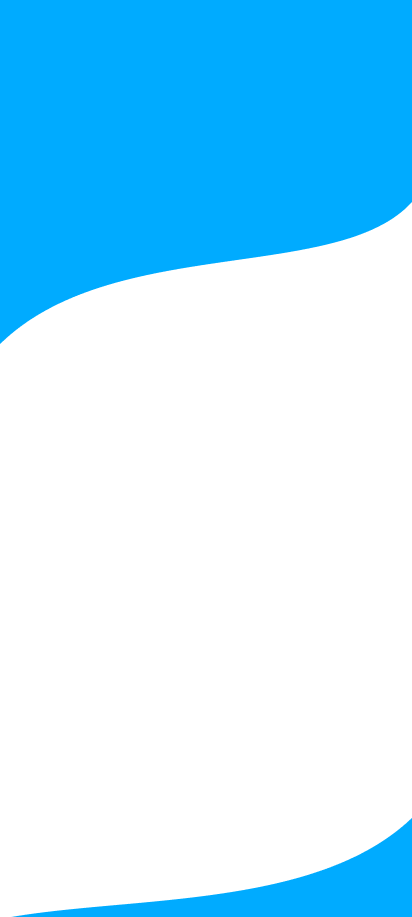
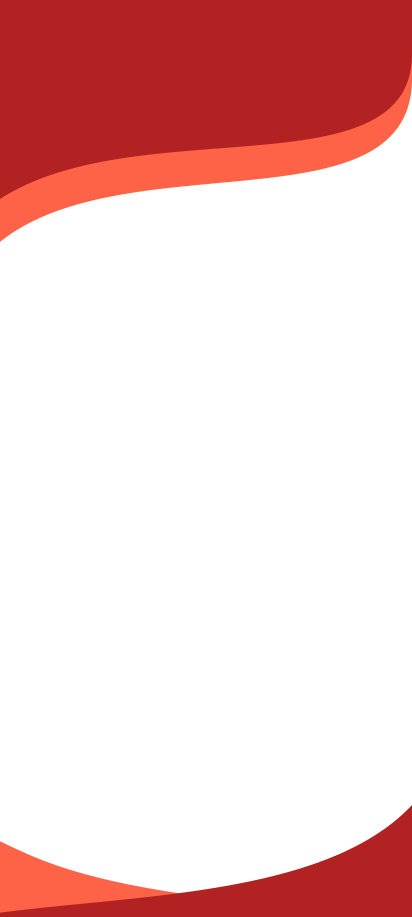
re-vamp login, signup, and bottomnavbar

diff --git a/lib/view/signup_view.dart b/lib/view/signup_view.dart
@@ -25,16 +25,11 @@ class _MySignupState extends State<SignupView> {
         resizeToAvoidBottomInset: true,
         body: Stack(
           children: [
-            Container(
-              decoration: const BoxDecoration(
-                gradient: LinearGradient(
-                  begin: Alignment.topCenter,
-                  end: Alignment.bottomCenter,
-                  colors: [
-                    Color(0xFFCEEFFF),
-                    Colors.white,
-                  ],
-                ),
+            // Background Image
+            Positioned.fill(
+              child: Image.asset(
+                'assets/images/signup_background.png',
+                fit: BoxFit.cover,
               ),
             ),
             // Sign up content
@@ -44,13 +39,13 @@ class _MySignupState extends State<SignupView> {
                   mainAxisAlignment: MainAxisAlignment.center,
                   crossAxisAlignment: CrossAxisAlignment.center,
                   children: [
-                    const SizedBox(height: 20),
+                    const SizedBox(height: 80),
                     Text(
                       'Sign up',
                       style: TextStyle(
                         fontFamily: "Quicksand",
                         fontSize: 40,
-                        color: HexColor('#00abff'),
+                        color: HexColor("#B22222"),
                         fontWeight: FontWeight.bold,
                       ),
                     ),
@@ -64,7 +59,7 @@ class _MySignupState extends State<SignupView> {
                             TextFormField(
                               keyboardType: TextInputType.text,
                               decoration:
-                                  _inputDecoration('Name', 'Enter your name'),
+                              _inputDecoration('Name', 'Enter your name'),
                               validator: (enteredName) {
                                 return enteredName!.isEmpty
                                     ? 'Please enter your name'
@@ -86,7 +81,7 @@ class _MySignupState extends State<SignupView> {
                             TextFormField(
                               keyboardType: TextInputType.emailAddress,
                               decoration:
-                                  _inputDecoration('Email', 'Enter your email'),
+                              _inputDecoration('Email', 'Enter your email'),
                               validator: (value) {
                                 if (value!.isEmpty) {
                                   return 'Please enter your email';
@@ -113,7 +108,7 @@ class _MySignupState extends State<SignupView> {
                                   onPressed: () {
                                     setState(() {
                                       _passwordIsObscured =
-                                          !_passwordIsObscured;
+                                      !_passwordIsObscured;
                                     });
                                   },
                                 ),
@@ -140,7 +135,7 @@ class _MySignupState extends State<SignupView> {
                                   onPressed: () {
                                     setState(() {
                                       _confirmPasswordIsObscured =
-                                          !_confirmPasswordIsObscured;
+                                      !_confirmPasswordIsObscured;
                                     });
                                   },
                                 ),
@@ -163,13 +158,12 @@ class _MySignupState extends State<SignupView> {
                                 elevation: 5,
                               ).copyWith(
                                 backgroundColor:
-                                    WidgetStateProperty.resolveWith<Color>(
-                                  (Set<WidgetState> states) {
+                                WidgetStateProperty.resolveWith<Color>(
+                                      (Set<WidgetState> states) {
                                     if (states.contains(WidgetState.pressed)) {
-                                      return HexColor(
-                                          "FF5400"); // Orange when pressed
+                                      return HexColor("FF6347");
                                     }
-                                    return HexColor("#00abff"); // blue
+                                    return HexColor("B22222");
                                   },
                                 ),
                                 foregroundColor: WidgetStateProperty.all(
@@ -196,13 +190,20 @@ class _MySignupState extends State<SignupView> {
                     Row(
                       mainAxisAlignment: MainAxisAlignment.center,
                       children: [
-                        const Text('Already a user? '),
+                        Text(
+                          'Already a user? ',
+                          style: TextStyle(
+                              color: HexColor("#B22222"),
+                              fontSize: 16,
+                          ),
+                        ),
                         InkWell(
-                          child: const Text(
+                          child: Text(
                             'Login',
                             style: TextStyle(
                               decoration: TextDecoration.underline,
-                              color: Colors.blue,
+                              color: HexColor("#FF6347"),
+                              fontSize: 16,
                             ),
                           ),
                           onTap: () {
@@ -236,7 +237,7 @@ class _MySignupState extends State<SignupView> {
       focusedBorder: OutlineInputBorder(
         borderRadius: BorderRadius.circular(15),
         borderSide:
-            const BorderSide(color: Colors.grey, width: 2.0), // focused gray
+        const BorderSide(color: Colors.grey, width: 2.0),
       ),
       fillColor: Colors.white,
       filled: true,

diff --git a/lib/view/login_view.dart b/lib/view/login_view.dart
@@ -71,17 +71,19 @@ class _MyLoginState extends State<LoginView>
               mainAxisAlignment: MainAxisAlignment.start,
               crossAxisAlignment: CrossAxisAlignment.center,
               children: [
-                const SizedBox(height: 150),
+                const SizedBox(height: 175),
                 // App logo or title
                 RotationTransition(
                   turns: _animationController, // Apply rotation animation
                   child: Image.asset(
                     'assets/images/dioLogo.png', // Replace with your dioLogo.png path
-                    height: 250, // Adjust size as needed
-                    width: 500,
+                    height: 300, // Adjust size as needed
+                    width: 600,
                   ),
                 ),
-                const SizedBox(height: 20),
+/*
+                const SizedBox(height: 10),
+*/
                 // Login form
                 Expanded(
                   child: SingleChildScrollView(
@@ -95,10 +97,10 @@ class _MyLoginState extends State<LoginView>
                           children: [
                             // Login title
                             Text(
-                              'Login',
+                              'Dish It Out!',
                               style: TextStyle(
                                 fontSize: 40,
-                                color: HexColor("00abff"),
+                                color: HexColor("#B22222"),
                                 fontWeight: FontWeight.bold,
                               ),
                             ),
@@ -175,7 +177,7 @@ class _MyLoginState extends State<LoginView>
                             ElevatedButton(
                               style: ElevatedButton.styleFrom(
                                 backgroundColor:
-                                    HexColor("00abff"), // Default blue
+                                    HexColor("#B22222"),
                                 foregroundColor: Colors.white, // Text color
                                 shape: RoundedRectangleBorder(
                                   borderRadius: BorderRadius.circular(10),
@@ -186,10 +188,9 @@ class _MyLoginState extends State<LoginView>
                                     WidgetStateProperty.resolveWith<Color>(
                                   (Set<WidgetState> states) {
                                     if (states.contains(WidgetState.pressed)) {
-                                      return HexColor(
-                                          "FF5400"); // Orange when pressed
+                                      return HexColor("#FF6347");
                                     }
-                                    return HexColor("00abff"); // Default color
+                                    return HexColor("#B22222");
                                   },
                                 ),
                               ),
@@ -221,13 +222,19 @@ class _MyLoginState extends State<LoginView>
                             Row(
                               mainAxisAlignment: MainAxisAlignment.center,
                               children: [
-                                const Text('New user? '),
+                                Text(
+                                  'New user? ',
+                                  style: TextStyle(
+                                    color: HexColor("#B22222"),
+                                    fontSize: 16,
+                                  ),
+                                ),
                                 InkWell(
-                                  child: const Text(
+                                  child: Text(
                                     'Sign up',
                                     style: TextStyle(
                                       decoration: TextDecoration.underline,
-                                      color: Colors.blue,
+                                      color: HexColor("#FF6347"),
                                     ),
                                   ),
                                   onTap: () {

diff --git a/lib/view/home_view.dart b/lib/view/home_view.dart
@@ -47,28 +47,28 @@ class _MyHomeState extends State<HomeView> {
                 IconButton(
                   icon: Image.asset(
                   "assets/icons/search.png",
-                    width: 50,
-                    height: 50,
+                    width: 70,
+                    height: 70,
                   ),
-                  padding: EdgeInsets.all(40),
+                  padding: EdgeInsets.all(25),
                   onPressed: () {},
                 ),
                 IconButton(
                   icon: Image.asset(
                       "assets/icons/like.png",
-                    width: 50,
-                    height: 50,
+                    width: 70,
+                    height: 70,
                   ),
-                  padding: EdgeInsets.all(40),
+                  padding: EdgeInsets.all(25),
                   onPressed: () {},
                 ),
                 IconButton(
                   icon: Image.asset(
                     "assets/icons/dice.png",
-                    width: 50,
-                    height: 50,
+                    width: 70,
+                    height: 70,
                   ),
-                  padding: EdgeInsets.all(40),
+                  padding: EdgeInsets.all(25),
                   onPressed: () {},
                 ),
               ],
@@ -86,7 +86,7 @@ class _MyHomeState extends State<HomeView> {
                   style: TextStyle(
                     fontFamily: 'Quicksand',
                     fontSize: 30,
-                    color: HexColor("00abff"),
+                    color: HexColor("B22222"),
                     fontWeight: FontWeight.bold,
                   ),
                 ),
@@ -173,7 +173,8 @@ class _MyHomeState extends State<HomeView> {
         bottomNavigationBar: BottomNavigationBar(
           showUnselectedLabels: false,
           selectedItemColor: Colors.white,
-          backgroundColor: HexColor('#00abff'),
+          unselectedItemColor: HexColor("#FF6347"),
+          backgroundColor: HexColor('#B22222'),
           type: BottomNavigationBarType.fixed,
           onTap: (int newIndex) {
             setState(() {

diff --git a/lib/view/profile_view.dart b/lib/view/profile_view.dart
@@ -50,7 +50,7 @@ class _MyProfileState extends State<ProfileView> {
               ),
             ),
             Text(
-              StaticUser.user!.username.toString(),
+              StaticUser.user!.name.toString(),
               style: TextStyle(
                   fontFamily: 'Quicksand',
                   fontSize: 40,
@@ -92,7 +92,7 @@ class _MyProfileState extends State<ProfileView> {
                       ),
                     ),
                     Text(
-                      "$firstDish",
+                      "${firstDish.toUpperCase()}",
                       style: TextStyle(
                         fontFamily: 'Quicksand',
                         fontSize: 20,
@@ -112,7 +112,7 @@ class _MyProfileState extends State<ProfileView> {
                       ),
                     ),
                     Text(
-                      "$secondDish",
+                      "${secondDish.toUpperCase()}",
                       style: TextStyle(
                         fontFamily: 'Quicksand',
                         fontSize: 20,
@@ -132,7 +132,7 @@ class _MyProfileState extends State<ProfileView> {
                       ),
                     ),
                     Text(
-                      "$thirdDish",
+                      "${thirdDish.toUpperCase()}",
                       style: TextStyle(
                         fontFamily: 'Quicksand',
                         fontSize: 20,
@@ -167,9 +167,9 @@ class _MyProfileState extends State<ProfileView> {
           ],
         ),
         bottomNavigationBar: BottomNavigationBar(
-          showUnselectedLabels: false,
-          selectedItemColor: Colors.white,
-          backgroundColor: HexColor('#00abff'),
+          selectedItemColor: HexColor("#F5F5F5"),
+          unselectedItemColor: HexColor("#FF6347"),
+          backgroundColor: HexColor('#B22222'),
           type: BottomNavigationBarType.fixed,
           onTap: (int newIndex) {
             setState(() {

diff --git a/lib/view/saved_view.dart b/lib/view/saved_view.dart
@@ -116,7 +116,8 @@ class _MySavedState extends State<SavedView> {
           bottomNavigationBar: BottomNavigationBar(
             showUnselectedLabels: false,
             selectedItemColor: Colors.white,
-            backgroundColor: HexColor('#00abff'),
+            unselectedItemColor: HexColor("#FF6347"),
+            backgroundColor: HexColor('#B22222'),
             type: BottomNavigationBarType.fixed,
             onTap: (int newIndex) {
               setState(() {

diff --git a/lib/view/menu_view.dart b/lib/view/menu_view.dart
@@ -47,7 +47,8 @@ class _MyMenuState extends State<MenuView> {
         bottomNavigationBar: BottomNavigationBar(
           showUnselectedLabels: false,
           selectedItemColor: Colors.white,
-          backgroundColor: HexColor('#00abff'),
+          unselectedItemColor: HexColor("#FF6347"),
+          backgroundColor: HexColor('#B22222'),
           type: BottomNavigationBarType.fixed,
           onTap: (int newIndex) {
             setState(() {

diff --git a/lib/view/leaderboard_view.dart b/lib/view/leaderboard_view.dart
@@ -47,7 +47,7 @@ class _MyLeaderboardState extends State<LeaderboardView> {
         bottomNavigationBar: BottomNavigationBar(
           showUnselectedLabels: false,
           selectedItemColor: Colors.white,
-          backgroundColor: HexColor('#00abff'),
+          backgroundColor: HexColor('#B22222'),
           type: BottomNavigationBarType.fixed,
           onTap: (int newIndex) {
             setState(() {
